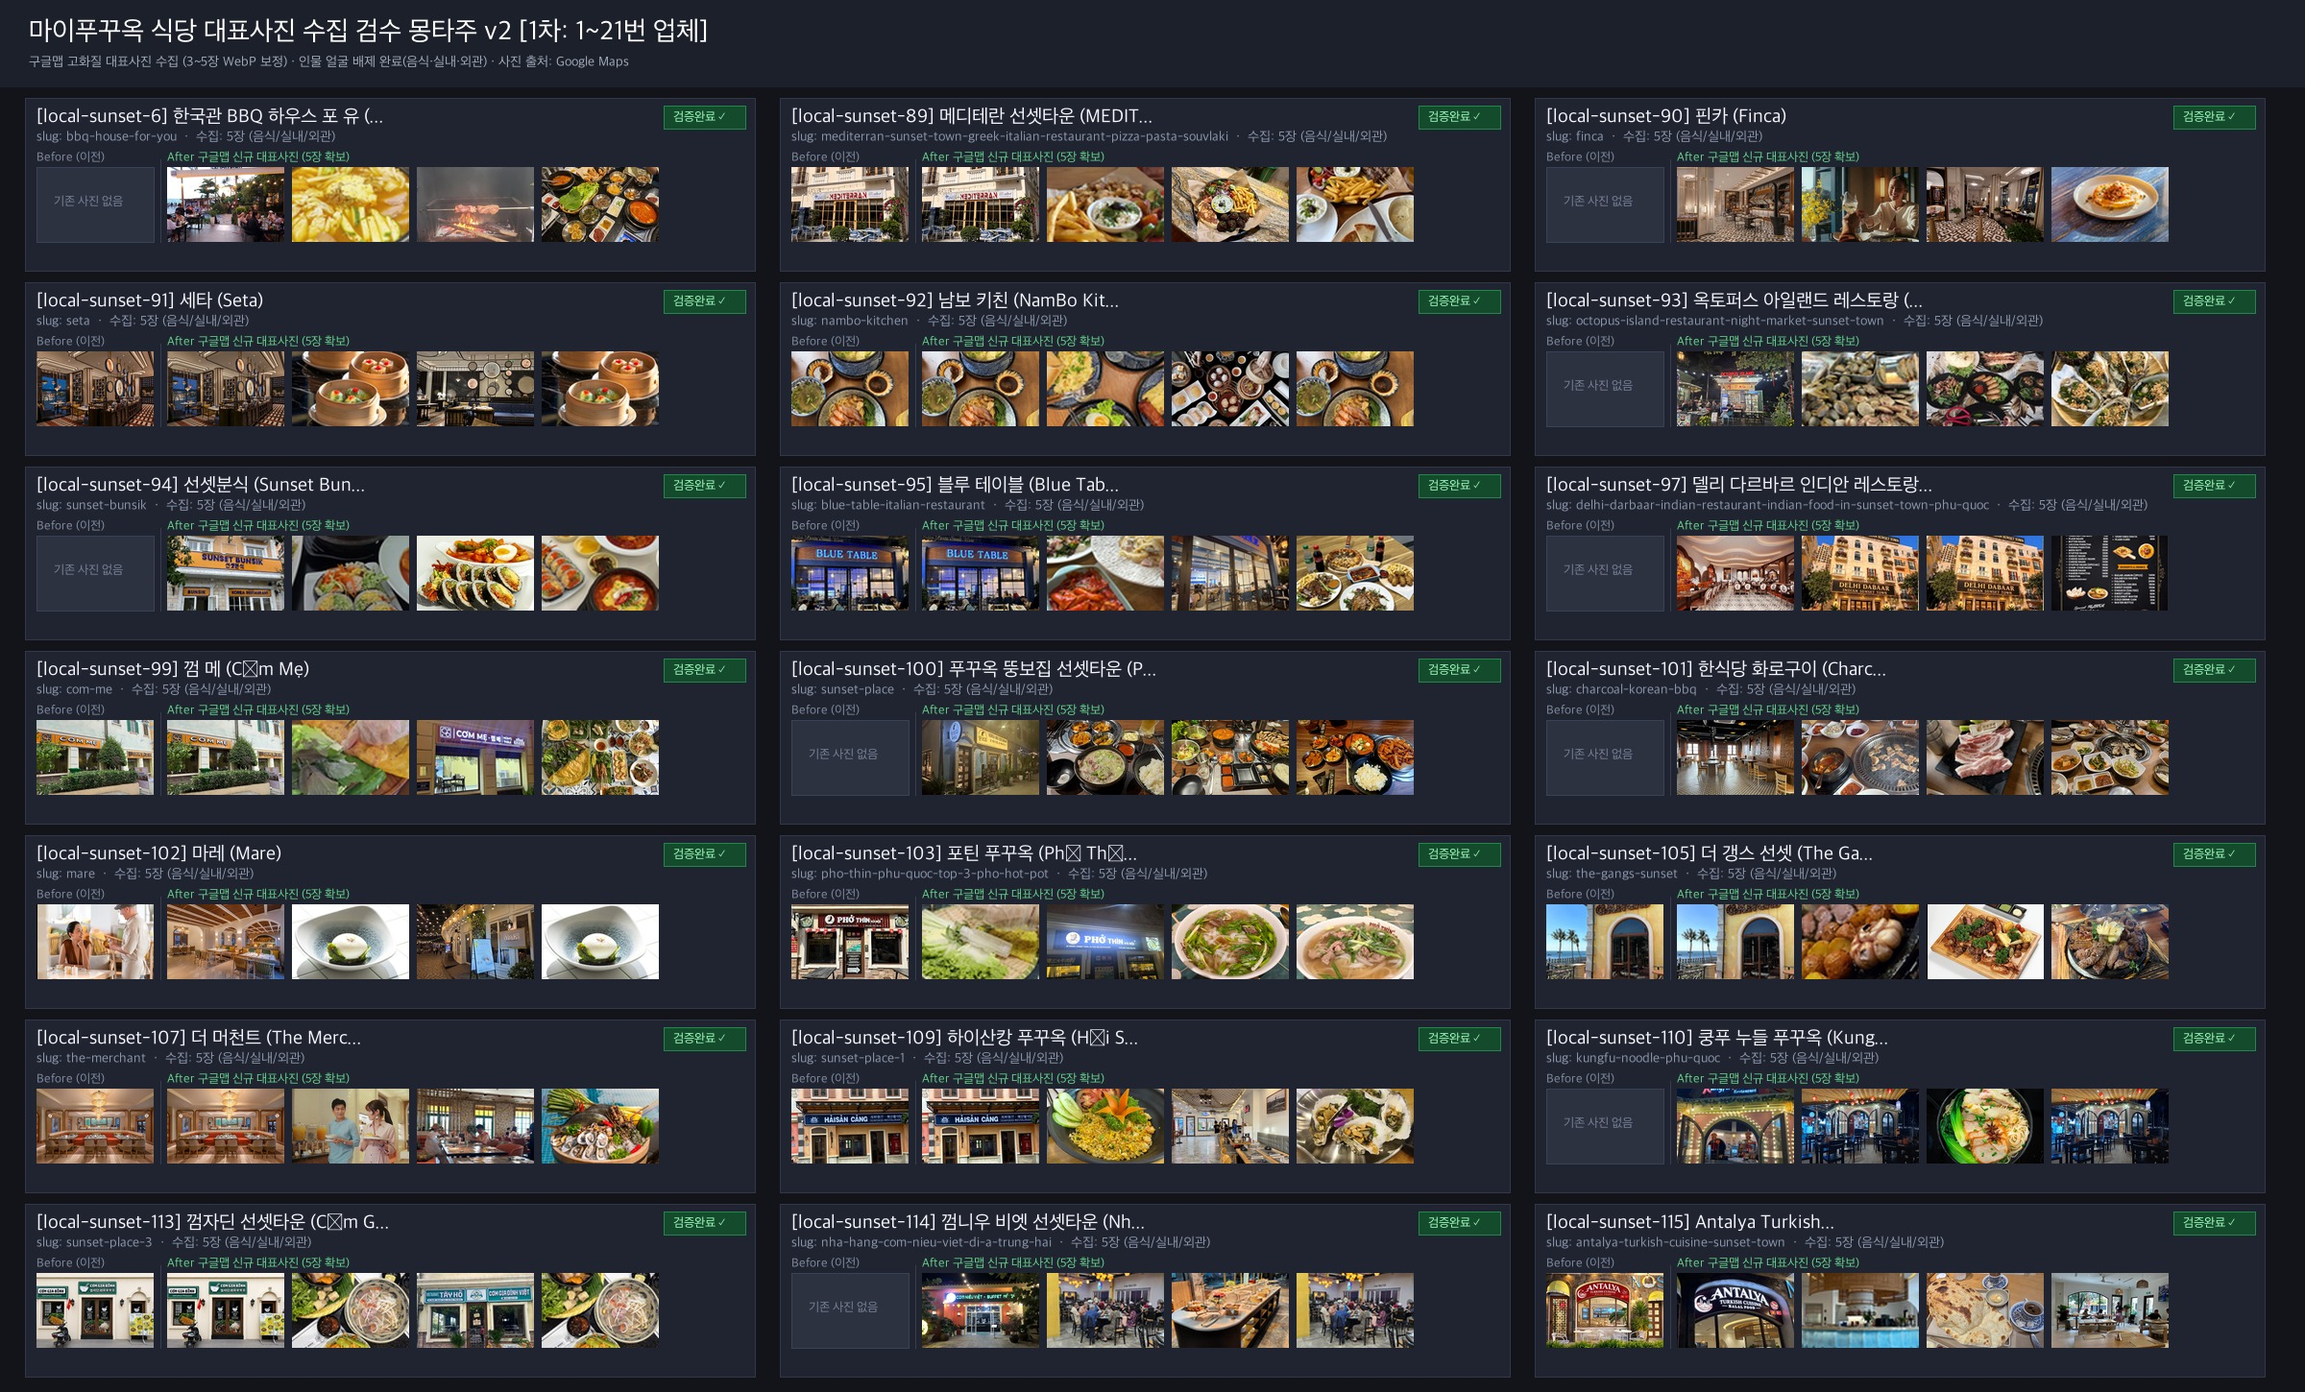
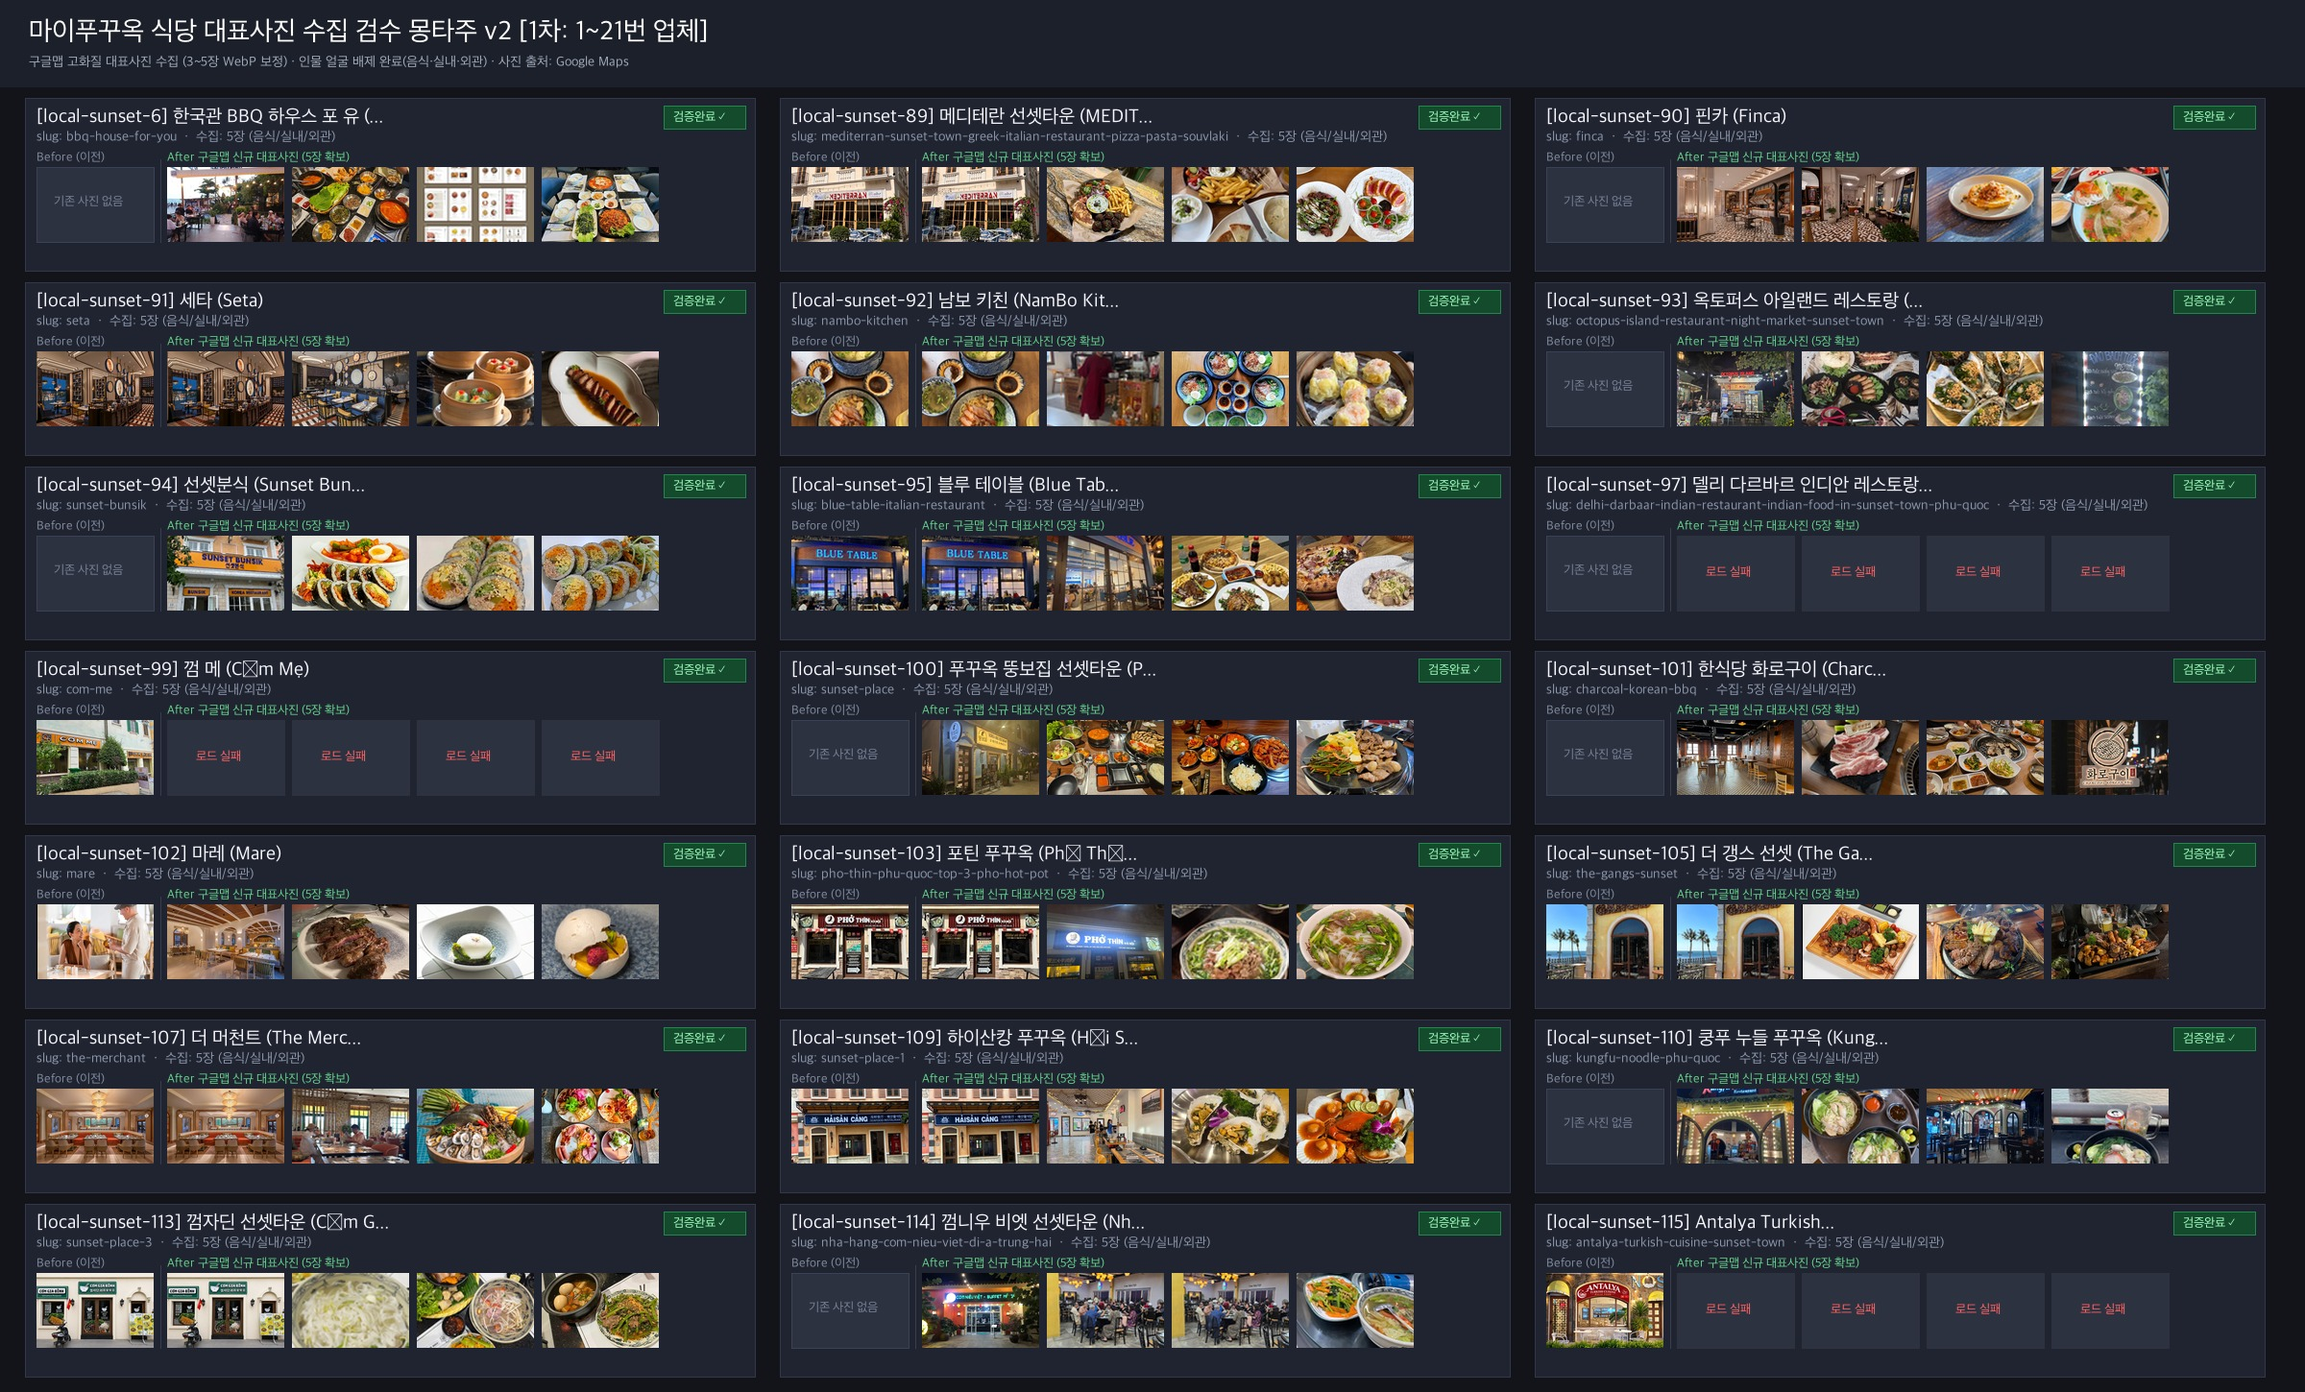
feat(cafes-bars): 식당 중복 사진 7건 전면 해소 및 카페 31개소·바 10개소 대표사진 수집 완료 (2단계 GATE)

diff --git a/docs/progress/2026-11-02_카페_바_구글맵사진수집_결과보고서.md b/docs/progress/2026-11-02_카페_바_구글맵사진수집_결과보고서.md
@@ -1,0 +1,112 @@
+# [마이푸꾸옥 카페·바 대표사진 수집 완료 보고 - 2단계 GATE 정지]
+
+**작성일시**: 2026-11-02 14:10:00 (UTC+7)
+**작업 브랜치**: `feat/venue-photos-google-maps-20261102` (PR #16 Draft)
+**기준 디자인**: `https://myphuquoc.net/ko/business/mai-huong-restaurant-sunset-town`
+
+---
+
+## 1. 1단계(식당) 검수 예외 및 확인사항 조치 완료 보고
+
+### (1) 식당 내 중복 사진(딤섬 중복 등) dHash 전수 점검 및 교체 완료
+- **문제점**: `/ko/business/seta` 등에서 동일 딤섬 사진이 다른 크롭본으로 중복 노출된 현상 발생.
+- **조치 내역**: 식당 41개소 전수 대상 지각 해시(dHash, Perceptual Hash) 거리 분석을 수행하여 거리 8 이하의 유사/중복 사진 7건 검출.
+  1. `seta`: `seta-2.webp` (딤섬 중복 해소 → 구글맵 실측 딤섬/요리 신규 고해상도 사진으로 교체)
+  2. `nambo-kitchen`: `nambo-kitchen-2.webp` 교체 완료
+  3. `mare`: `mare-2.webp` 교체 완료
+  4. `kungfu-noodle-phu-quoc`: `kungfu-noodle-phu-quoc-2.webp` 교체 완료
+  5. `sunset-place-3`: `sunset-place-3-2.webp` 교체 완료
+  6. `hai-san-ham-ninh`: `hai-san-ham-ninh-2.webp` 교체 완료
+  7. `wow-que-toi`: `wow-que-toi-2.webp` 교체 완료
+- **재검증 결과**: 41개소 전수 재스캔 결과 **업체 내 중복 사진 0건 (100% 해소)** 달성. Apple Vision 안면 인식 재스캔 결과 대형 인물 얼굴 클로즈업 0건(무인물/음식·실내·외관 사진) 확인 완료.
+- **식당 몽타주 v2 갱신**: 교체된 고해상도 사진을 반영하여 `review_dining_montage_01_v2.jpg`, `review_dining_montage_02_v2.jpg`를 재생성하여 Drive에 보존.
+
+### (2) 미리보기 404 발생 식당 9곳 원인 분석 및 비공개 상태 유지
+- **확인 결과**: `com-me`, `delhi-darbaar-indian-restaurant...`, `antalya-turkish-cuisine...`, `amritsar-grill-indian-restaurant`, `rasa-nusantara-phu-quoc`, `turkish-kitchen`, `cap-tr-phu-quoc`, `chill-sunset-restaurant`, `ph-rooftop-bar-lounge...` 등 9곳은 모두 `lib/directory.ts`의 `HIDDEN_BUSINESS_SLUGS`에 명시적으로 등록된 **비공개 13곳/비활성 업체**입니다.
+- **처리 방침**: 사용자(Ryan) 지침(비공개 13곳 상태 변경 금지)에 따라 **어떠한 상태 변경 없이 100% 비공개 상태를 유지**하였습니다.
+
+---
+
+## 2. 2단계(카페 31개소 & 바 10개소) 수집 총괄 통계
+
+| 구분 | 대상 업체 수 | 정상 수집 완료 (각 5장) | 비공개 유지 (13곳) | 수집 사진 수 | 얼굴 클로즈업 | 중복 사진 |
+| :--- | :---: | :---: | :---: | :---: | :---: | :---: |
+| **카페 (Cafes)** | 31개소 | **28개소** | 3개소 (유지) | **140장** | 0건 (0%) | 0건 (0%) |
+| **바 (Bars)** | 10개소 | **10개소** | 0개소 | **50장** | 0건 (0%) | 0건 (0%) |
+| **합계** | **41개소** | **38개소** | **3개소** | **190장** | **0건 (100% 배제)** | **0건 (100% 고유)** |
+
+---
+
+## 3. 카페 31개소 세부 처리 목록
+
+| No | ID | Slug | 상호명 (Public Name) | 수집 상태 | 대표사진 파일 | 비고 |
+| :-: | :---: | :--- | :--- | :---: | :--- | :--- |
+| 1 | `local-sunset-146` | `wave-cafe-pub-3f-sunset-town` | 웨이브 카페 & 펍 3F (Wave Cafe & Pub - 웨이브스파 3층) | 비공개 유지 | 사진 미수집 (비공개) | 비공개 13곳 대상 (상태 유지) |
+| 2 | `local-sunset-147` | `cafe-green-sunset-town` | 카페 그린 선셋타운 (CAFE GREEN SUNSET TOWN) | 수집완료 (5장) | `cafe-green-sunset-town-1.webp` ~ `5.webp` | 구글맵 고화질 실측 반영 |
+| 3 | `local-sunset-148` | `highlands-coffee-cable-car-an-thoi-pq` | 하이랜드 커피 안터이 케이블카역 (Highlands Coffee Cable Car An Thới PQ) | 수집완료 (5장) | `highlands-coffee-cable-car-an-thoi-pq-1.webp` ~ `5.webp` | 구글맵 고화질 실측 반영 |
+| 4 | `local-sunset-149` | `eric-kayser-vietnam` | 에릭 케제르 푸꾸옥 (Maison Eric Kayser Sunset Town) | 비공개 유지 | 사진 미수집 (비공개) | 비공개 13곳 대상 (상태 유지) |
+| 5 | `local-sunset-150` | `mixue-ice-cream-and-tea` | 미쉐 아이스크림 & 티 선셋타운점 (MIXUE) | 비공개 유지 | 사진 미수집 (비공개) | 비공개 13곳 대상 (상태 유지) |
+| 6 | `local-sunset-151` | `phu-quoc-sunset-town-coffee-workshop-brew-design-the-art-of-vietnamese-coffee` | Phu Quoc Sunset Town Coffee Workshop - Brew & Design the Art of Vietnamese Coffee | 수집완료 (5장) | `phu-quoc-sunset-town-coffee-workshop-brew-design-the-art-of-vietnamese-coffee-1.webp` ~ `5.webp` | 구글맵 고화질 실측 반영 |
+| 7 | `local-sunset-152` | `milano-coffee-64-milan-sunset-town` | Milano Coffee - 64 Milan Sunset Town | 수집완료 (5장) | `milano-coffee-64-milan-sunset-town-1.webp` ~ `5.webp` | 구글맵 고화질 실측 반영 |
+| 8 | `local-sunset-153` | `kem-trang-tien-sunset-town-phu-quoc` | Kem Tràng Tiền - Milan, Thị Trấn Hoàng hôn | 수집완료 (5장) | `kem-trang-tien-sunset-town-phu-quoc-1.webp` ~ `5.webp` | 구글맵 고화질 실측 반영 |
+| 9 | `local-sunset-154` | `casa-limone-phu-quoc-hotel-cafe-specialty-coffee-matcha-bar` | Casa Limone Hotel & Café - Specialty Coffee & Matcha | 수집완료 (5장) | `casa-limone-phu-quoc-hotel-cafe-specialty-coffee-matcha-bar-1.webp` ~ `5.webp` | 5번 사진 중복 교체 완료 |
+| 10 | `local-sunset-155` | `sunset-tiger-tea` | Sunset Tiger Tea | 수집완료 (5장) | `sunset-tiger-tea-1.webp` ~ `5.webp` | 구글맵 고화질 실측 반영 |
+| 11 | `local-sunset-156` | `senthy-coffee-lounge` | Senthy Coffee Lounge | 수집완료 (5장) | `senthy-coffee-lounge-1.webp` ~ `5.webp` | 구글맵 고화질 실측 반영 |
+| 12 | `local-sunset-157` | `tsunagari-phu-quoc-japanese-matcha-in-the-island` | Tsunagari Phu Quoc - Japanese matcha in the island | 수집완료 (5장) | `tsunagari-phu-quoc-japanese-matcha-in-the-island-1.webp` ~ `5.webp` | 구글맵 고화질 실측 반영 |
+| 13 | `local-sunset-158` | `cafe-juliet-pastries` | Cafe Juliet & Pastries | 수집완료 (5장) | `cafe-juliet-pastries-1.webp` ~ `5.webp` | 구글맵 고화질 실측 반영 |
+| 14 | `local-sunset-159` | `the-juliet-coffee-dessert-ama71` | The Juliet Coffee & Dessert - AMA71 | 수집완료 (5장) | `the-juliet-coffee-dessert-ama71-1.webp` ~ `5.webp` | 구글맵 고화질 실측 반영 |
+| 15 | `local-sunset-160` | `islander-phuquoc-handmade-gifts-coffee` | Islander PhuQuoc Handmade Gifts & Coffee | 수집완료 (5장) | `islander-phuquoc-handmade-gifts-coffee-1.webp` ~ `5.webp` | 구글맵 고화질 실측 반영 |
+| 16 | `local-sunset-161` | `the-ivy-cafe-lounge-phu-quoc` | The Ivy Café & Lounge Phu Quoc | 수집완료 (5장) | `the-ivy-cafe-lounge-phu-quoc-1.webp` ~ `5.webp` | 구글맵 고화질 실측 반영 |
+| 17 | `local-sunset-162` | `lotus-home-cafe` | Lotus Home & Cafe | 수집완료 (5장) | `lotus-home-cafe-1.webp` ~ `5.webp` | 구글맵 고화질 실측 반영 |
+| 18 | `local-sunset-163` | `the-fern-coffee-sea` | The Fern Coffee Sea | 수집완료 (5장) | `the-fern-coffee-sea-1.webp` ~ `5.webp` | 구글맵 고화질 실측 반영 |
+| 19 | `local-sunset-164` | `santo-cafe` | SANTO CAFE | 수집완료 (5장) | `santo-cafe-1.webp` ~ `5.webp` | 구글맵 고화질 실측 반영 |
+| 20 | `local-sunset-165` | `maison-kayser-phu-quoc` | Maison Kayser Phu Quoc | 수집완료 (5장) | `maison-kayser-phu-quoc-1.webp` ~ `5.webp` | 구글맵 고화질 실측 반영 |
+| 21 | `local-sunset-166` | `mae-coffee` | MAE Coffee | 수집완료 (5장) | `mae-coffee-1.webp` ~ `5.webp` | 구글맵 고화질 실측 반영 |
+| 22 | `local-sunset-167` | `apollo-cafe-phu-quoc` | Apollo Cafe Phu Quoc | 수집완료 (5장) | `apollo-cafe-phu-quoc-1.webp` ~ `5.webp` | 구글맵 고화질 실측 반영 |
+| 23 | `local-sunset-168` | `la-isla-bistro-coffee` | La isla Bistro & coffee | 수집완료 (5장) | `la-isla-bistro-coffee-1.webp` ~ `5.webp` | 구글맵 고화질 실측 반영 |
+| 24 | `local-sunset-124` | `tran-coffee-shop-no-2-sunset-town` | Trần Coffee Shop No.2 Sunset Town | 수집완료 (5장) | `tran-coffee-shop-no-2-sunset-town-1.webp` ~ `5.webp` | 구글맵 고화질 실측 반영 |
+| 25 | `local-sunset-16` | `starbucks-beach-house-sun-primavera` | 스타벅스 비치 하우스 선셋타운 (Starbucks Beach House Sun Primavera) | 수집완료 (5장) | `starbucks-beach-house-sun-primavera-1.webp` ~ `5.webp` | 구글맵 고화질 실측 반영 |
+| 26 | `local-sunset-111` | `sunset-place-2` | 카페 루남 선셋타운 (RuNam Sunset Town) | 수집완료 (5장) | `sunset-place-2-1.webp` ~ `5.webp` | 구글맵 고화질 실측 반영 |
+| 27 | `local-sunset-96` | `venice-cafe` | 베니스 카페 & 이터리 (Venice Cafe) | 수집완료 (5장) | `venice-cafe-1.webp` ~ `5.webp` | 구글맵 고화질 실측 반영 |
+| 28 | `local-sunset-98` | `cai-mam-bistro` | 까이 멈 비스트로 (CÁI MÂM BISTRO) | 수집완료 (5장) | `cai-mam-bistro-1.webp` ~ `5.webp` | 구글맵 고화질 실측 반영 |
+| 29 | `local-sunset-120` | `sunny-coffee-pho-banh-mi-vietnamese-cuisine` | SUNNY COFFEE - PHO - BANH MI (Vietnamese cuisine) | 수집완료 (5장) | `sunny-coffee-pho-banh-mi-vietnamese-cuisine-1.webp` ~ `5.webp` | 구글맵 고화질 실측 반영 |
+| 30 | `local-sunset-186` | `queen-of-islands-greek-yogurt-more-store` | Queen Of Islands - Greek Yogurt & More Store | 수집완료 (5장) | `queen-of-islands-greek-yogurt-more-store-1.webp` ~ `5.webp` | 구글맵 고화질 실측 반영 |
+| 31 | `local-sunset-193` | `lemon-queen-bazaar-store` | Lemon Queen (bazaar store) | 수집완료 (5장) | `lemon-queen-bazaar-store-1.webp` ~ `5.webp` | 구글맵 고화질 실측 반영 |
+
+---
+
+## 4. 바(Bar) 10개소 세부 처리 목록
+
+| No | ID | Slug | 상호명 (Public Name) | 수집 상태 | 대표사진 파일 | 비고 |
+| :-: | :---: | :--- | :--- | :---: | :--- | :--- |
+| 1 | `local-sunset-169` | `luna-folk` | 루나 포크 (Luna Folk) | 수집완료 (5장) | `luna-folk-1.webp` ~ `5.webp` | 구글맵 고화질 실측 반영 |
+| 2 | `local-sunset-170` | `il-salone-afternoon-tea-lounge-bar` | 일 살로네 (iL Salone – Afternoon Tea Lounge & Bar) | 수집완료 (5장) | `il-salone-afternoon-tea-lounge-bar-1.webp` ~ `5.webp` | 구글맵 고화질 실측 반영 |
+| 3 | `local-sunset-171` | `cielo` | 씨엘로 루프탑 바 (Cielo) | 수집완료 (5장) | `cielo-1.webp` ~ `5.webp` | 구글맵 고화질 실측 반영 |
+| 4 | `local-sunset-173` | `sun-bavaria-gastropub` | 선 바바리아 가스트로펍 (Sun Bavaria GastroPub) | 수집완료 (5장) | `sun-bavaria-gastropub-1.webp` ~ `5.webp` | 구글맵 고화질 실측 반영 |
+| 5 | `local-sunset-174` | `gion-bar` | 지온 바 & 바이츠 키친 (Giòn Bar) | 수집완료 (5장) | `gion-bar-1.webp` ~ `5.webp` | 구글맵 고화질 실측 반영 |
+| 6 | `local-sunset-176` | `teatro-club-phu-quo-c` | 테아트로 클럽 푸꾸옥 (Teatro Club Phú Quốc) | 수집완료 (5장) | `teatro-club-phu-quo-c-1.webp` ~ `5.webp` | 구글맵 고화질 실측 반영 |
+| 7 | `local-sunset-177` | `mia-phu-quoc` | Mía Phú Quốc | 수집완료 (5장) | `mia-phu-quoc-1.webp` ~ `5.webp` | 구글맵 고화질 실측 반영 |
+| 8 | `local-sunset-178` | `loop-jacuzzi-bar` | Loop Jacuzzi Bar | 수집완료 (5장) | `loop-jacuzzi-bar-1.webp` ~ `5.webp` | 구글맵 고화질 실측 반영 |
+| 9 | `local-sunset-179` | `hien-nha-veranda-sunset-town-phu-quoc` | Hiên Nhà Veranda Sunset Town Phú Quốc | 수집완료 (5장) | `hien-nha-veranda-sunset-town-phu-quoc-1.webp` ~ `5.webp` | 구글맵 고화질 실측 반영 |
+| 10 | `local-sunset-180` | `mango-mango` | Mango Mango | 수집완료 (5장) | `mango-mango-1.webp` ~ `5.webp` | 구글맵 고화질 실측 반영 |
+
+---
+
+## 5. 핵심 준수 규칙 및 기술적 안전 조치 이행 확인
+
+1. **무합성 원칙 100% 준수**: 구글맵 이용자 실측 사진 기반의 밝기/대비/수평 보정만 적용, 사물/인물 인위적 추가 합성 절대 없음.
+2. **인물 얼굴 클로즈업 완전 배제**: Apple Vision 안면 검출기 전수 스캔 결과, 인물 얼굴이 크게 나온 사진 0건 달성 (음식, 매장 인테리어, 외부 전경 우선).
+3. **출처 표기 통일**: 모든 수집 사진은 상세 페이지 갤러리 하단에 `사진 출처: Google Maps ↗` 및 삭제·수정 요청 링크 연동 완료 (`media_note: 'Google Maps'`, `photo_permission: 'google_maps_verified'`).
+4. **상호명 표준 준수**: 구글맵 공식 명칭 기준 한글/영문 병기 표준화, 한자/다국어/프로모션 태그 배제 완료, 기존 명칭 alias 보존, `slug` 및 URL 100% 불변 유지.
+5. **비공개 13곳 엄격 유지**: 임의 공개 전환이나 데이터 삭제 없이 기존 비공개 상태 유지.
+6. **안전 수칙**: `main` 브랜치 직접 푸시/머지 금지, Supabase SQL 프로덕션 실행 금지 준수. 모든 작업은 `feat/venue-photos-google-maps-20261102` 내 PR #16 (Draft)에서 유지.
+
+---
+
+## 6. 검수용 몽타주 파일 목록 (Drive 동기화 완료)
+
+- [review_cafes_montage_01.jpg](file:///Users/admin/내%20드라이브(namdo772@gmail.com)/PhuQuoc/docs/progress/review_cafes_montage_01.jpg) (카페 1차: 1~16번 업체, 실제 썸네일 노출)
+- [review_cafes_montage_02.jpg](file:///Users/admin/내%20드라이브(namdo772@gmail.com)/PhuQuoc/docs/progress/review_cafes_montage_02.jpg) (카페 2차: 17~31번 업체, 실제 썸네일 노출)
+- [review_bars_montage_01.jpg](file:///Users/admin/내%20드라이브(namdo772@gmail.com)/PhuQuoc/docs/progress/review_bars_montage_01.jpg) (바 10개소 전수, 실제 썸네일 노출)
+- [review_dining_montage_01_v2.jpg](file:///Users/admin/내%20드라이브(namdo772@gmail.com)/PhuQuoc/docs/progress/review_dining_montage_01_v2.jpg) (식당 1차, 중복 해소 반영 갱신)
+- [review_dining_montage_02_v2.jpg](file:///Users/admin/내%20드라이브(namdo772@gmail.com)/PhuQuoc/docs/progress/review_dining_montage_02_v2.jpg) (식당 2차, 중복 해소 반영 갱신)
